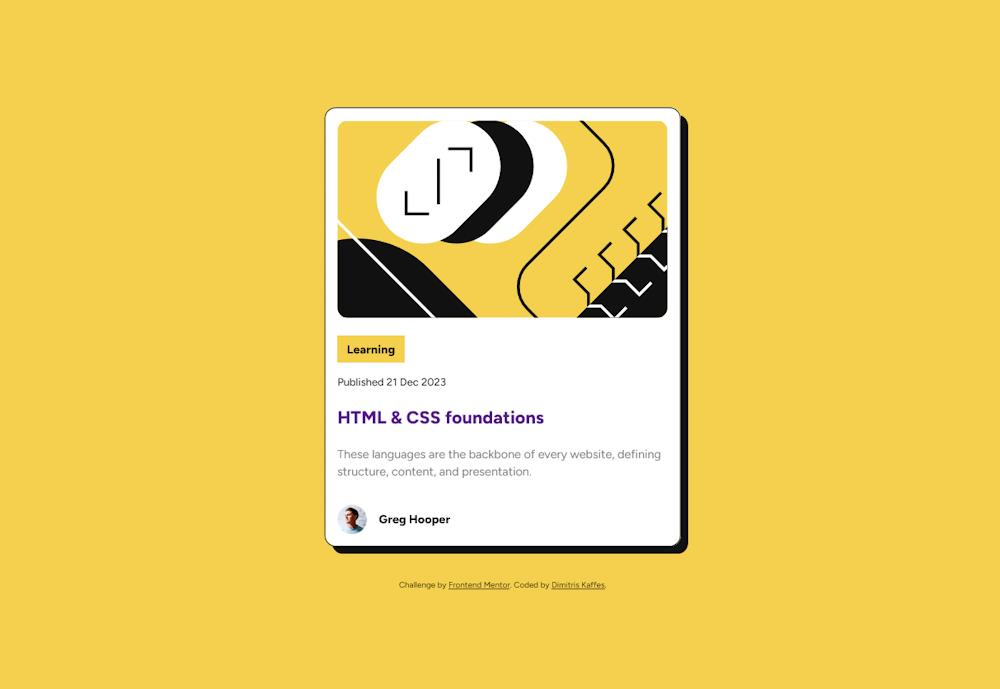
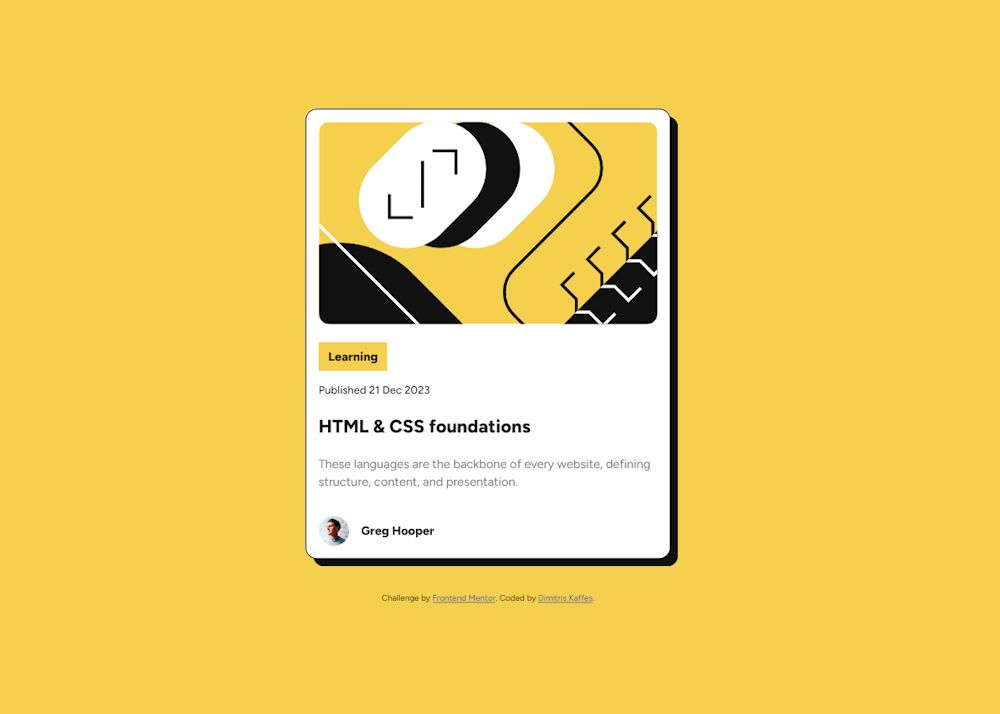
minor changes

Changed region(s): [[0.279, 0.1524, 0.713, 0.8534]]

diff --git a/style.css b/style.css
@@ -134,7 +134,7 @@ body {
   align-items: center;
   justify-content: center;
   gap: 2rem;
-  padding: 2rem;
+  padding: 1rem;
 }
 
 .card {
@@ -216,7 +216,6 @@ body {
 
 .text--description {
   color: var(--grey);
-  font-size: 1rem;
   margin-bottom: 2rem;
 }
 
